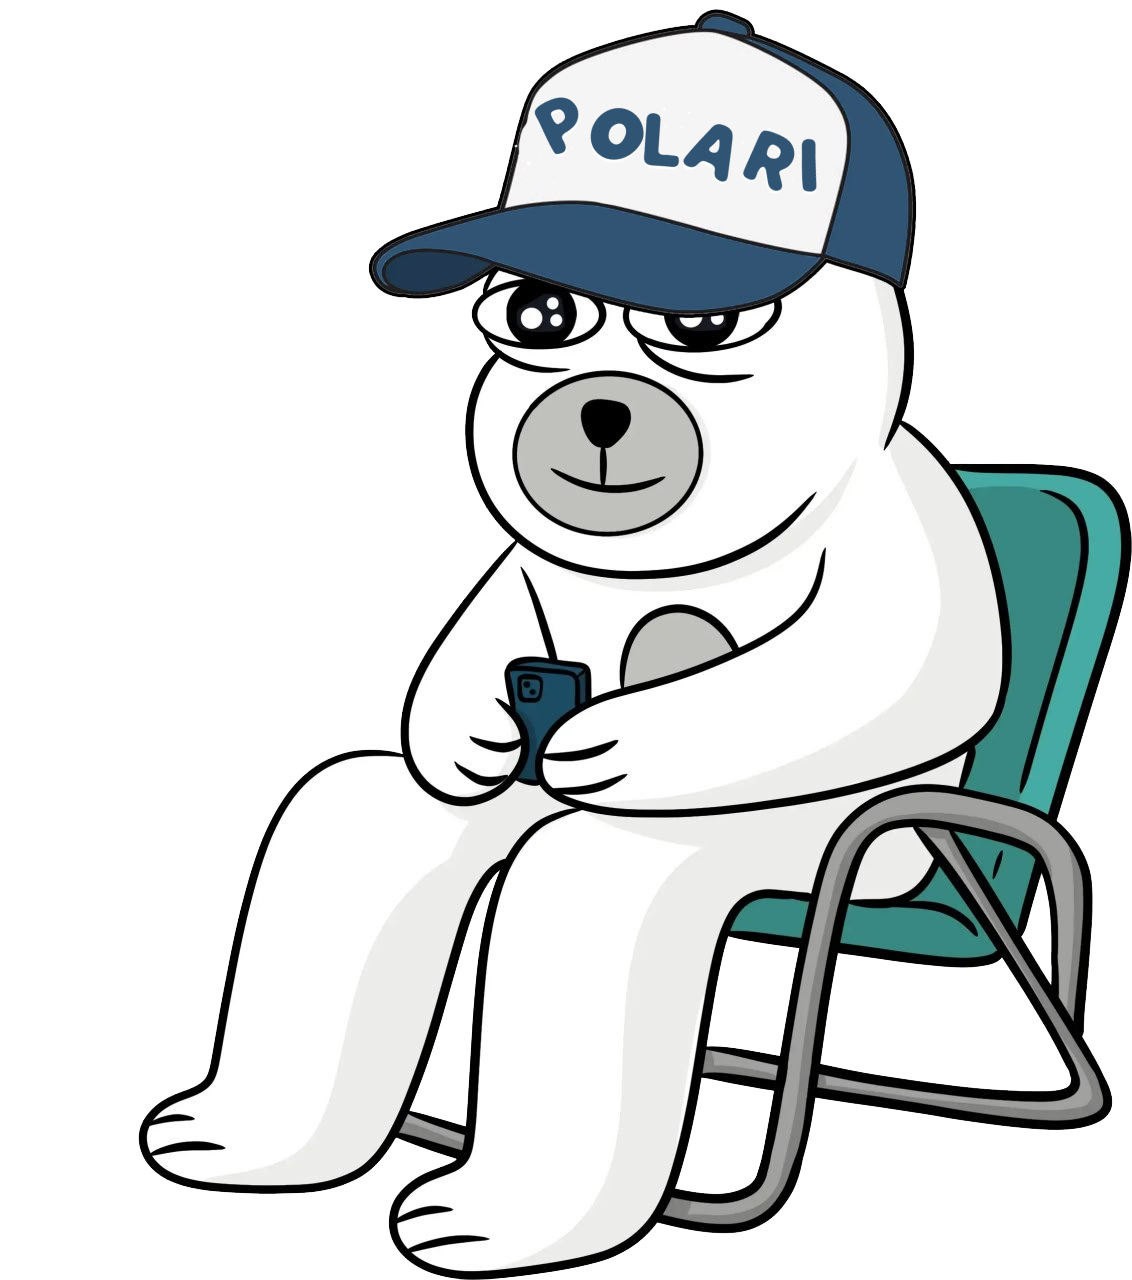
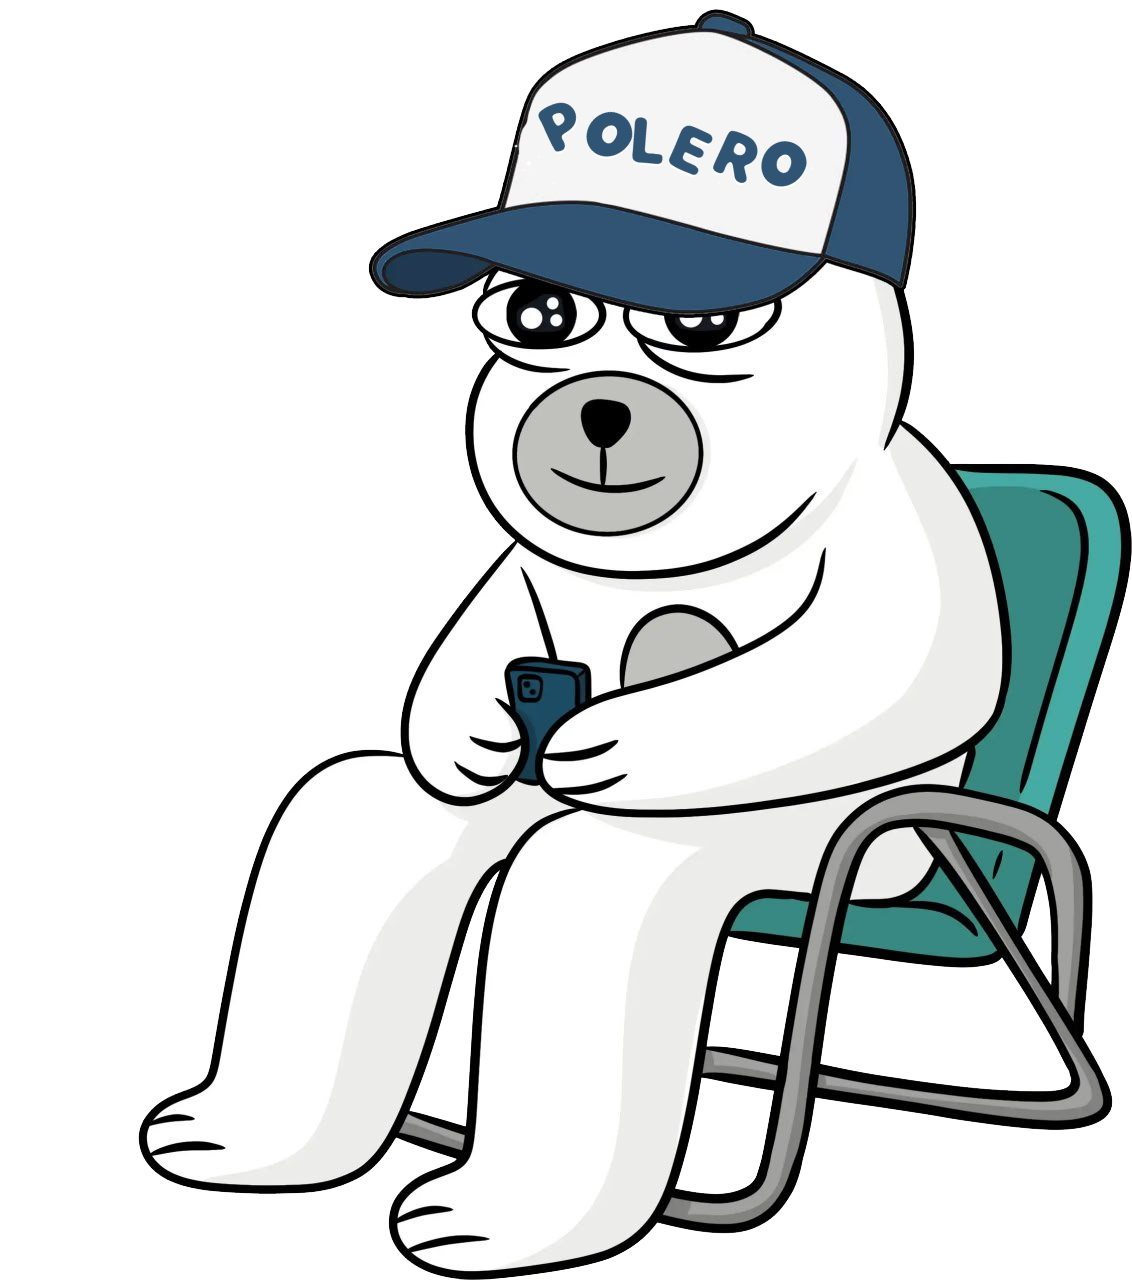
1

Changed region(s): [[0.4638, 0.0625, 0.742, 0.1562]]

diff --git a/index.html b/index.html
@@ -16,14 +16,14 @@
 		<meta name="distribution" content="global"> 
 		<meta name="robots" content="index,follow"> 
 		<meta name="country" content="US">
-		<meta name="description" content="POLARI is the newest charismatic fluffy ruler of the frozen crypto tundra. This fun, decentralized, community-driven token is built on Solana Chain.">
+		<meta name="description" content="POLERO is the newest charismatic fluffy ruler of the frozen crypto tundra. This fun, decentralized, community-driven token is built on Solana Chain.">
 		<meta name="google-site-verification" content="">
 		
 		<!-- Open Graph Meta Tags -->
 		<meta property="og:type" content="website">
 		<meta property="og:url" content="">
-		<meta property="og:title" content="POLARI | The Official POLARI Bear on Solanachain">
-		<meta property="og:description" content="POLARI is the newest charismatic fluffy ruler of the frozen crypto tundra. This fun, decentralized, community-driven token is built on Solana Chain.">
+		<meta property="og:title" content="POLERO | The Official POLERO Bear on Solanachain">
+		<meta property="og:description" content="POLERO is the newest charismatic fluffy ruler of the frozen crypto tundra. This fun, decentralized, community-driven token is built on Solana Chain.">
 
 		
 
@@ -37,7 +37,7 @@
 		<meta name="msapplication-TileColor" content="#9c2730">
 		<meta name="theme-color" content="#ffffff">
 		
-		<title>POLARI | The Official Polar Bear on Solanachain</title>
+		<title>POLERO | The Official Polar Bear on Solanachain</title>
 		<link href="assets/css/include.css" rel="stylesheet">
 		<!-- Google tag (gtag.js) -->
 		<script async src="https://www.googletagmanager.com/gtag/js?id=G-083C66RB80"></script>
@@ -66,14 +66,14 @@
 							<span style="margin-right: 40px">P</span>
 							<span>O</span>
 							<span>L</span>
-							<span>A</span>
+							<span>E</span>
 							<span>R</span>
-							<span style="rotate: -10deg; margin-left:40px; margin-right: 0px;">I</span>
+							<span style="rotate: -10deg; margin-left:40px; margin-right: 0px;">O</span>
 <!--							<span>R</span>-->
 
 						</h1>
 						<div class="vstack mx-auto col-12 col-xl-6 milky fs-3 text-center gap-1 lh-base text-blue-4">
-							<span>Hi I'm POLARI</span>
+							<span>Hi I'm POLERO</span>
 							<span>I'm the coldest, chillest, and funniest bear</span>
 							<span>in the entire SOLArctic. Welcome to my world.</span>
 						</div>
@@ -132,8 +132,8 @@
 				<div class="container py-5 position-relative">
 					<div class="d-flex flex-column col-12 col-lg-8 justify-content-center gap-4 text-center position-relative z-1 py-0 py-md-5 text-blue-4 milky">
 						<h2 class="display-3">A New King Has Risen</h2>
-						<p class="fs-5 lh-base">Meet POLARI, the latest ruler of the icy domains of cryptocurrency, a royal polar bear who's more chilled than the arctic ice and cooler than the other side of the pillow. Born on the vast, frostbitten landscapes of the Solana Chain, this fluffy monarch has swiftly ascended to the throne, not through bloodshed or conquest, but with sheer charisma and an unshakable belief in the power of meme magic.</p>
-						<p class="fs-5 lh-base">This is not your average bear. POLARI's reign is marked by his unorthodox approach to governance; he rules with a gentle paw and a heart as big as his appetite for salmon. In a world where seriousness often overshadows fun, POLARI dares to ask, "Why not both?" He's democratizing the crypto kingdom one belly slide at a time, proving that you can indeed mix business with pleasure and that every bear can have his fish and eat it too.</p>
+						<p class="fs-5 lh-base">Meet POLERO, the latest ruler of the icy domains of cryptocurrency, a royal polar bear who's more chilled than the arctic ice and cooler than the other side of the pillow. Born on the vast, frostbitten landscapes of the Solana Chain, this fluffy monarch has swiftly ascended to the throne, not through bloodshed or conquest, but with sheer charisma and an unshakable belief in the power of meme magic.</p>
+						<p class="fs-5 lh-base">This is not your average bear. POLERO's reign is marked by his unorthodox approach to governance; he rules with a gentle paw and a heart as big as his appetite for salmon. In a world where seriousness often overshadows fun, POLERO dares to ask, "Why not both?" He's democratizing the crypto kingdom one belly slide at a time, proving that you can indeed mix business with pleasure and that every bear can have his fish and eat it too.</p>
 					</div>
 				</div>
 				<div class="baby-pola"></div>
@@ -143,17 +143,17 @@
 					<div class="d-flex flex-column-reverse flex-md-row gap-4">
 						<div class="d-flex flex-column justify-content-center gap-4 col-12 col-md-6">
 							<div class="d-flex flex-column gap-1 text-blue-4">
-								<span class="fs-4 milky lh-base">POLARI on Solanachain</span>
-								<h2 class="milky display-s lh-1 ">OFFICIAL POLARI LINKS</h2>
+								<span class="fs-4 milky lh-base">POLERO on Solanachain</span>
+								<h2 class="milky display-s lh-1 ">OFFICIAL POLERO LINKS</h2>
 							</div>
 
 							<div class="d-flex flex-column gap-2">
 								<span class="fs-6 milky fw-bolder text-blue-4">Social &amp; Onchain Data</span>
 								<div class="socials hstack gap-3">
-									<a href="https://x.com/polariosolcoin" target="_blank">
+									<a href="https://x.com/polerosolcoin" target="_blank">
 										<div class="icon twitter rounded-circle"></div>
 									</a>
-									<a href="https://t.me/polarionsol" target="_blank">
+									<a href="https://t.me/polerosol" target="_blank">
 										<div class="icon telegram rounded-circle"></div>
 									</a>
 									<a href="#" target="_blank">
@@ -168,7 +168,7 @@
 								<span class="fs-6 milky fw-bolder text-blue-4">Exchanges (MORE TBA)</span>
 								<div class="row row-cols-2 row-cols-lg-3 g-3">
 									<div class="col">
-										<a href="https://pump.fun/k2AzWvAvU7K652UetkULwLLP68ySj3vzX7p1TB9pump" target="_blank" class="h-100 btn btn-md btn-light rounded-pill w-100 py-2 px-3">
+										<a href="https://pump.fun/HHJE9u5cBHBjgdGZmTLfUVs3rjmfwHBdx3vpsM3Aump" target="_blank" class="h-100 btn btn-md btn-light rounded-pill w-100 py-2 px-3">
 											<img src="assets/logos/pumpfun.svg" class="w-75 mt-1" alt="uniswap link">
 										</a>
 									</div>
@@ -191,10 +191,10 @@
 							</div-->
 						</div>
 						<div class="col-12 col-md-4 pola-in-phone">
-							<a class="polarmy-buble polarmy-link" href="https://t.me/polarionsol"><img src="assets/images/pola-phone-bubble-r.png" class="w-100 " alt="click to join polarmy"></a>
-							<a href="https://t.me/polarionsol"><img src="assets/images/pola-phone-r.png" class="w-100 " alt="pola having fun on tg"></a>
-							<a class="polarmy-buble polarmy-link" href="https://t.me/polarionsol"><img src="assets/images/pola-phone-bubble-l.png" class="w-100 " alt="click to join polarmy"></a>
-							<a  href="https://t.me/polarionsol"><img src="assets/images/pola-phone-l.png" class="w-100 " alt="pola having fun on tg"></a>
+							<a class="polarmy-buble polarmy-link" href="https://t.me/polerosol"><img src="assets/images/pola-phone-bubble-r.png" class="w-100 " alt="click to join polarmy"></a>
+							<a href="https://t.me/polerosol"><img src="assets/images/pola-phone-r.png" class="w-100 " alt="pola having fun on tg"></a>
+							<a class="polarmy-buble polarmy-link" href="https://t.me/polerosol"><img src="assets/images/pola-phone-bubble-l.png" class="w-100 " alt="click to join polarmy"></a>
+							<a  href="https://t.me/polerosol"><img src="assets/images/pola-phone-l.png" class="w-100 " alt="pola having fun on tg"></a>
 						</div>
 					</div>
 					
@@ -220,17 +220,17 @@
 			<section id="tokenomics" class="position-relative bg-blue-4 py-5 snow-cap">
 				<div class="container py-5 position-relative">
 					<div class="vstack gap-4 text-center mb-5 col-12 col-xl-6 mx-auto text-white milky">
-						<h2 class="display-1 shouxietongzhen gradient-txt-1">POLARInomics</h2>
-						<p class="fs-5 lh-base">Adhering to the ethos of decentralization, $POLARI adopted a strategy to ensure genuine community ownership and nurture growth with steadfast support from the community.</p>
+						<h2 class="display-1 shouxietongzhen gradient-txt-1">POLEROnomics</h2>
+						<p class="fs-5 lh-base">Adhering to the ethos of decentralization, $POLERO adopted a strategy to ensure genuine community ownership and nurture growth with steadfast support from the community.</p>
 					</div>
 
 					<div class="d-flex flex-column flex-xl-row disclaimer rounded-4 p-3 border border-4 border-blue-1 shadow gap-3 col-12 col-xl-8 mx-auto mb-4 bg-white milky text-blue-4">
-						<a href="https://pump.fun/k2AzWvAvU7K652UetkULwLLP68ySj3vzX7p1TB9pump"><button class="btn btn-lg btn-light px-3">
-							<span class="fw-bold fs-6 text-blue-4">Buy $POLARI</span>
+						<a href="https://pump.fun/HHJE9u5cBHBjgdGZmTLfUVs3rjmfwHBdx3vpsM3Aump"><button class="btn btn-lg btn-light px-3">
+							<span class="fw-bold fs-6 text-blue-4">Buy $POLERO</span>
 						</button></a>
 						<div class="col-12 col-xl-10 hstack gap-3 justify-content-between rounded-3 border p-1 fs-6">
-							<span class="text-truncate fw-bold ms-3 contact">Contract address: k2AzWvAvU7K652UetkULwLLP68ySj3vzX7p1TB9pump</span>
-							<button class="btn btn-md btn-light copy" data-text="k2AzWvAvU7K652UetkULwLLP68ySj3vzX7p1TB9pump">
+							<span class="text-truncate fw-bold ms-3 contact">Contract address: HHJE9u5cBHBjgdGZmTLfUVs3rjmfwHBdx3vpsM3Aump</span>
+							<button class="btn btn-md btn-light copy" data-text="HHJE9u5cBHBjgdGZmTLfUVs3rjmfwHBdx3vpsM3Aump">
 								<i class="bi bi-clipboard"></i>
 							</button>
 						</div>
@@ -303,7 +303,7 @@
 									<img src="assets/images/icons/base.svg" class="w-100" alt="base logo">
 								</div>
 								<h3 class="fw-bolder fs-1 milky text-uppercase lh-1">Secure Solana (BASE ETH)</h3>
-								<p class="fs-6 lh-base milky">Purchase Solanachain Ethereum (BASE), the foundational currency required for transactions on the base network where $POLARI operates. BASE ETH acts as the "gas" for transactions, including buying $POLARI.</p>
+								<p class="fs-6 lh-base milky">Purchase Solanachain Ethereum (BASE), the foundational currency required for transactions on the base network where $POLERO operates. BASE ETH acts as the "gas" for transactions, including buying $POLERO.</p>
 							</div>
 						</div>
 						<div class="col">
@@ -311,8 +311,8 @@
 								<div class="col-4 col-md-2">
 									<img src="assets/images/pola-5.webp" class="w-100" alt="buy pola">
 								</div>
-								<h3 class="fw-bolder fs-1 milky text-uppercase lh-1">Buy $POLARI</h3>
-								<p class="fs-6 lh-base milky">Use your newly acquired BASE ETH to purchase $POLARI tokens through a cryptocurrency exchange or decentralized exchange platform that lists $POLARI.</p>
+								<h3 class="fw-bolder fs-1 milky text-uppercase lh-1">Buy $POLERO</h3>
+								<p class="fs-6 lh-base milky">Use your newly acquired BASE ETH to purchase $POLERO tokens through a cryptocurrency exchange or decentralized exchange platform that lists $POLERO.</p>
 							</div>
 						</div>
 						<div class="col">
@@ -321,7 +321,7 @@
 									<img src="assets/images/icons/crypto-wallet.svg" class="w-100" alt="wallet logo">
 								</div>
 								<h3 class="fw-bolder fs-1 milky text-uppercase lh-1">Add To Your Wallet</h3>
-								<p class="fs-6 lh-base milky">Import $POLARI tokens into your MetaMask wallet by adding the pola token's contract address. This allows you to view and manage your $POLARI holdings directly within MetaMask.</p>
+								<p class="fs-6 lh-base milky">Import $POLERO tokens into your MetaMask wallet by adding the pola token's contract address. This allows you to view and manage your $POLERO holdings directly within MetaMask.</p>
 							</div>
 						</div>
 					</div>
@@ -339,8 +339,8 @@
 					
 						<img src="assets/images/VPN-Logo.svg" class="vpn-logo" alt="pola vpn logo">
 						
-						<h2 class="text-nowrap milky display-s lh-1">POLARI VPN</h2>
-						<span class="text-center fs-6 lh-base milky">POLARIVPN is the very first memecoin to have this feature. it is your gateway to a secure and unrestricted online experience, designed with your privacy in mind. Whether you're browsing, streaming, or working remotely, POLARIVPN ensures your data stays protected and your connections remain anonymous.</span>
+						<h2 class="text-nowrap milky display-s lh-1">POLERO VPN</h2>
+						<span class="text-center fs-6 lh-base milky">POLEROVPN is the very first memecoin to have this feature. it is your gateway to a secure and unrestricted online experience, designed with your privacy in mind. Whether you're browsing, streaming, or working remotely, POLEROVPN ensures your data stays protected and your connections remain anonymous.</span>
 						<div class="vpn-button-container" >
 							<button type="button" id="openISOApp" class="vpn-button border btn btn-light rounded-pill milky py-4 p-5 hstack gap-3 justify-content-center w-48">
 								<span class="fw-bolder fs-4">Android App soon</span>
@@ -397,10 +397,10 @@
 								<img src="assets/images/nfts/10.webp" alt="pola nft">
 							</div>
 						</div>
-						<h2 class="display-s lh-1 milky text-blue-4">POLARI NFT</h2>
+						<h2 class="display-s lh-1 milky text-blue-4">POLERO NFT</h2>
 						<div class="vstack gap-3 fs-6 fw-normal lh-base text-dark text-opacity-75">
-							<p>Explore POLARI NFT, an enchanting collection of 5,000 NFTs, released on Solana drawing inspiration from a cherished polar bear, these NFTs capture the essence and spirit of a unique polar bear-inspired theme.</p>
-							<p>Owning a POLARI NFT connects you to the dynamic community surrounding this theme, signifying your appreciation and embrace of the unique culture these digital assets symbolize.</p>
+							<p>Explore POLERO NFT, an enchanting collection of 5,000 NFTs, released on Solana drawing inspiration from a cherished polar bear, these NFTs capture the essence and spirit of a unique polar bear-inspired theme.</p>
+							<p>Owning a POLERO NFT connects you to the dynamic community surrounding this theme, signifying your appreciation and embrace of the unique culture these digital assets symbolize.</p>
 						</div>
 						<div>
 							<span class="fw-bold fw-bold py-2 rounded-pill">Collection Coming Soon</span>
@@ -417,14 +417,14 @@
 							<div class="d-flex flex-column gap-1 text-blue-4">
 								<span class="fs-4 milky">Ice Cream Products</span>
 								<div class="hstack">
-									<h2 id="data-title" class="text-nowrap milky display-s lh-1">POLARIPops</h2>
+									<h2 id="data-title" class="text-nowrap milky display-s lh-1">POLEROPops</h2>
 									<span class="fs-2 fw-bold lh-1">ⓒ</span>
 								</div>
-								<span id="data-description" class="fs-6 lh-base milky">POLARI Pops brings a refreshing twist to your favorite frozen treat! Our ice creams are handcrafted with natural ingredients, offering a burst of flavors that are as unique as they are delicious. From the classic creamy delights to exotic fruit-filled wonders, each POLARI Pop is designed to provide a blissful escape into a world of sweet, frosty pleasure.</span>
+								<span id="data-description" class="fs-6 lh-base milky">POLERO Pops brings a refreshing twist to your favorite frozen treat! Our ice creams are handcrafted with natural ingredients, offering a burst of flavors that are as unique as they are delicious. From the classic creamy delights to exotic fruit-filled wonders, each POLERO Pop is designed to provide a blissful escape into a world of sweet, frosty pleasure.</span>
 							</div>
 
 							<div class="d-flex flex-column gap-4">
-								<span class="fs-3 milky text-blue-4">POLARIPops Flavors</span>
+								<span class="fs-3 milky text-blue-4">POLEROPops Flavors</span>
 								<div class="row row-cols-3 row-cols-md-5 g-3 ice-creams">
 																		<div data-id="1" class="col data-source">
 										<a role="button" data-image="assets/flavors/1.webp" class="vstack h-100 rounded-4 p-3 gap-3 text-center">
@@ -493,7 +493,7 @@
 								<span class="fw-bold fs-6">Legal Disclaimer</span>
 								<i class="bi bi-arrow-down-circle-fill"></i>
 							</a>
-							<p id="legal" class="p-3 fs-7 lh-base d-none text-white">The content on the POLARI Token website is not meant to be understood as investment, financial, trading, or any form of advice, and should not be interpreted as such. POLARI Token does not suggest that any should be bought, sold, or held by you. It is important to perform your own thorough research and consult with your financial advisor prior to making any investment decisions. By acquiring POLARI Token, you acknowledge that you are not obtaining a security or investment and you agree to absolve POLARI Token of any responsibility for any losses or taxes you may face. Additionally, you accept that POLARI Token is offered "as is" without any obligation for support or services. Expectations from POLARI Token should be none. Although POLARI Token is designed for social networking and is not a registered digital currency, it is highly advised that individuals in locations where is banned by the government refrain from purchasing it, as POLARI Token cannot guarantee adherence to the legal requirements of your region. Always ensure your actions are in full compliance with local laws and regulations before making any purchases.</p>
+							<p id="legal" class="p-3 fs-7 lh-base d-none text-white">The content on the POLERO Token website is not meant to be understood as investment, financial, trading, or any form of advice, and should not be interpreted as such. POLERO Token does not suggest that any should be bought, sold, or held by you. It is important to perform your own thorough research and consult with your financial advisor prior to making any investment decisions. By acquiring POLERO Token, you acknowledge that you are not obtaining a security or investment and you agree to absolve POLERO Token of any responsibility for any losses or taxes you may face. Additionally, you accept that POLERO Token is offered "as is" without any obligation for support or services. Expectations from POLERO Token should be none. Although POLERO Token is designed for social networking and is not a registered digital currency, it is highly advised that individuals in locations where is banned by the government refrain from purchasing it, as POLERO Token cannot guarantee adherence to the legal requirements of your region. Always ensure your actions are in full compliance with local laws and regulations before making any purchases.</p>
 						</div>
 
 						<div class="vstack disclaimer rounded-4 shadow-sm">
@@ -506,11 +506,11 @@
 
 						<div class="d-flex flex-column flex-xl-row disclaimer rounded-4 p-3 shadow gap-3">
 							<button class="btn btn-lg btn-light px-3">
-								<a class="fw-bold fs-6 text-nowrap text-black" href="https://pump.fun/k2AzWvAvU7K652UetkULwLLP68ySj3vzX7p1TB9pump" target="_blank">Buy $POLARI</a>
+								<a class="fw-bold fs-6 text-nowrap text-black" href="https://pump.fun/HHJE9u5cBHBjgdGZmTLfUVs3rjmfwHBdx3vpsM3Aump" target="_blank">Buy $POLERO</a>
 							</button>
 							<div class="col-12 col-xl-10 text-white hstack gap-3 justify-content-between rounded-3 border p-1 fs-6">
-								<span class="text-truncate fw-bold ms-3 contact">Contract address: k2AzWvAvU7K652UetkULwLLP68ySj3vzX7p1TB9pump</span>
-								<button class="btn btn-md btn-light copy" data-text="k2AzWvAvU7K652UetkULwLLP68ySj3vzX7p1TB9pump">
+								<span class="text-truncate fw-bold ms-3 contact">Contract address: HHJE9u5cBHBjgdGZmTLfUVs3rjmfwHBdx3vpsM3Aump</span>
+								<button class="btn btn-md btn-light copy" data-text="HHJE9u5cBHBjgdGZmTLfUVs3rjmfwHBdx3vpsM3Aump">
 									<i class="bi bi-clipboard"></i>
 								</button>
 							</div>
@@ -520,10 +520,10 @@
 							<div class="col-12 col-md-4">
 								<div class="vstack gap-3">
 									<img src="assets/logos/pola.svg" class="col-8" alt="pola logo">
-									<small class="d-block mb-3">Collect, create, and engage with POLARI!</small>
+									<small class="d-block mb-3">Collect, create, and engage with POLERO!</small>
 									<div class="hstack gap-4">
-										<a href="https://x.com/polariosolcoin" target="_blank" class="fs-4"><i class="bi bi-twitter"></i></a>
-										<a href="https://t.me/polarionsol" target="_blank" class="fs-4"><i class="bi bi-telegram"></i></a>
+										<a href="https://x.com/polerosolcoin" target="_blank" class="fs-4"><i class="bi bi-twitter"></i></a>
+										<a href="https://t.me/polerosol" target="_blank" class="fs-4"><i class="bi bi-telegram"></i></a>
 									</div>
 								</div>
 							</div>
@@ -537,13 +537,13 @@
 		<div class="menu text-nowrap rounded-pill position-fixed bottom-0 z-3 bg-white border border-4 shadow d-none d-lg-block">
 			<div class="menu-list hstack gap-1">
 								<a href="#home" class="d-none d-md-block btn rounded-pill active.">Home</a>
-								<a href="#about" class="d-none d-md-block btn rounded-pill">About POLARI</a>
+								<a href="#about" class="d-none d-md-block btn rounded-pill">About POLERO</a>
 								<a href="#links" class="d-none d-md-block btn rounded-pill">Ecosystem</a>
 								<a href="#tokenomics" class="d-none d-md-block btn rounded-pill">Tokenomics</a>
 
 								<a href="#vpn" class="d-none d-md-block btn rounded-pill">VPN</a>
 								<a href="#nft" class="d-none d-md-block btn rounded-pill">NFT</a>
-								<a href="#popsicles" class="d-none d-md-block btn rounded-pill">POLARIPops</a>
+								<a href="#popsicles" class="d-none d-md-block btn rounded-pill">POLEROPops</a>
 								<a href="#" class="d-block d-md-none hamburger-menu">
 					<div></div>
 					<div></div>
